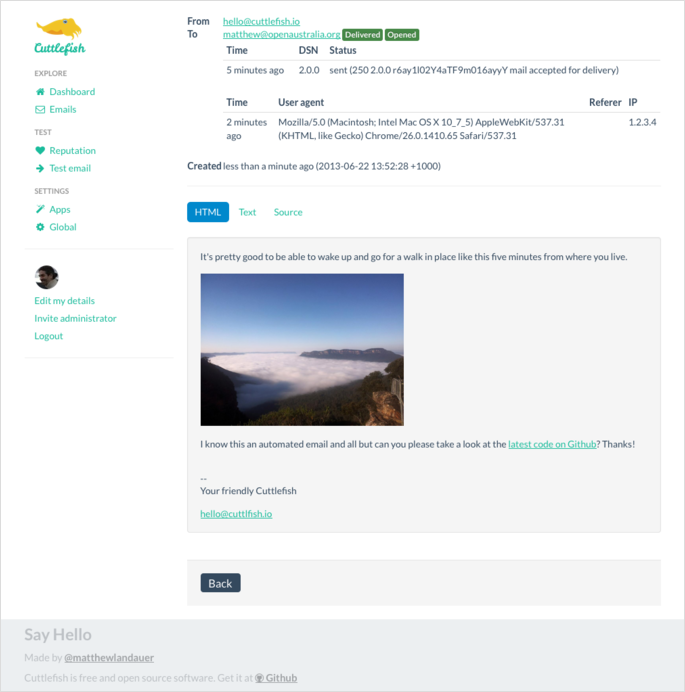
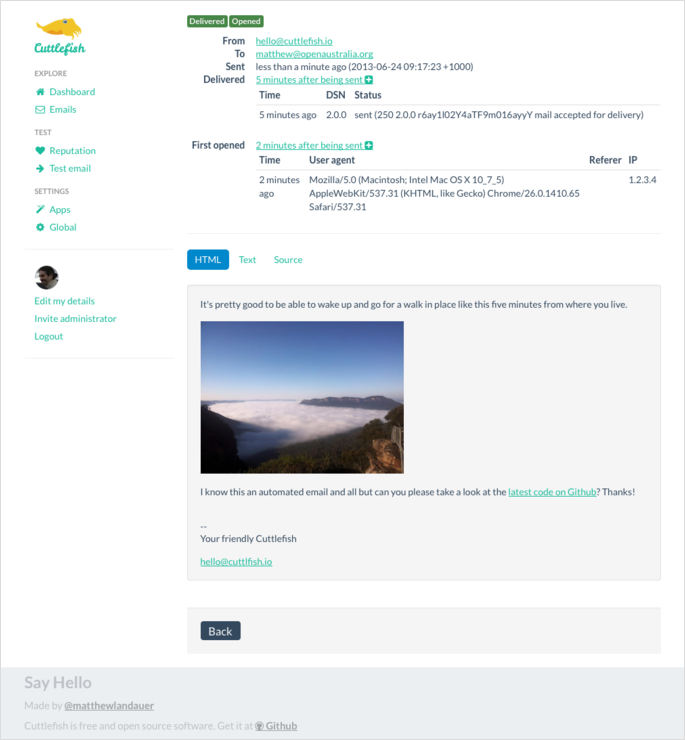
Update screenshots with latest changes

diff --git a/spec/features/screenshot_feature.rb b/spec/features/screenshot_feature.rb
@@ -84,8 +84,8 @@ describe "getting a bunch of screenshots", js: true do
 
     it "email" do
       visit delivery_path(@delivery)
-      click_link "Delivered"
-      click_link "Opened"
+      click_link "5 minutes after being sent"
+      click_link "2 minutes after being sent"
       # Wait until jquery animation finishes
       page.evaluate_script('$(":animated").length') == 0 
       screenshot("app/assets/images/screenshots/3.png")
